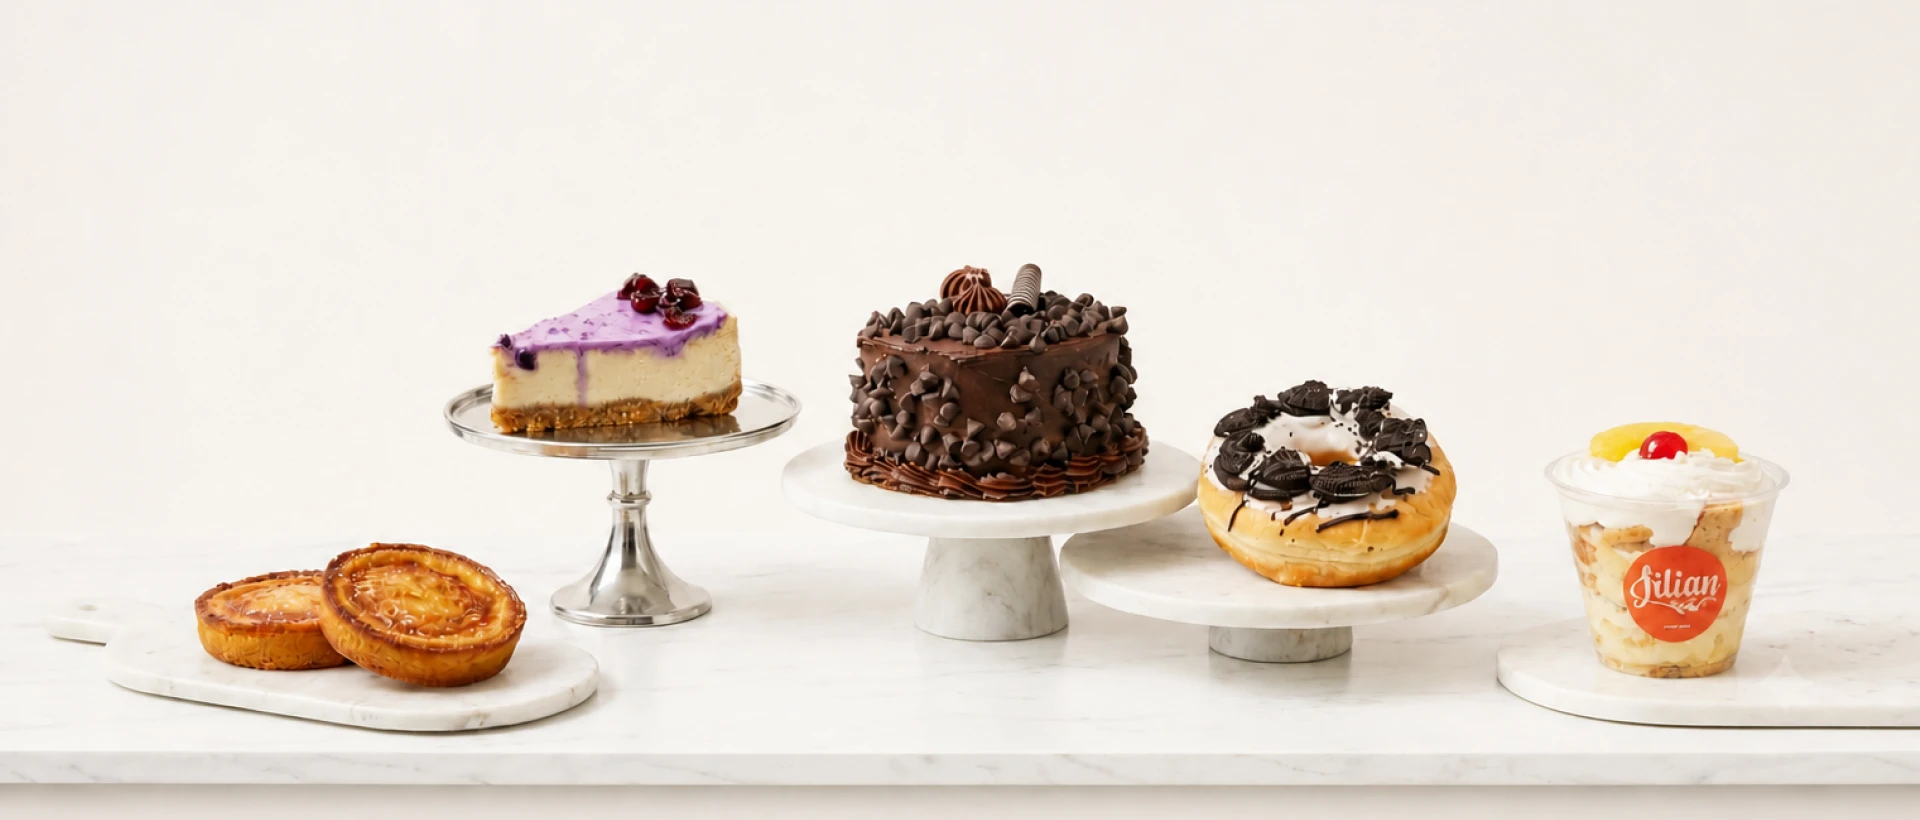
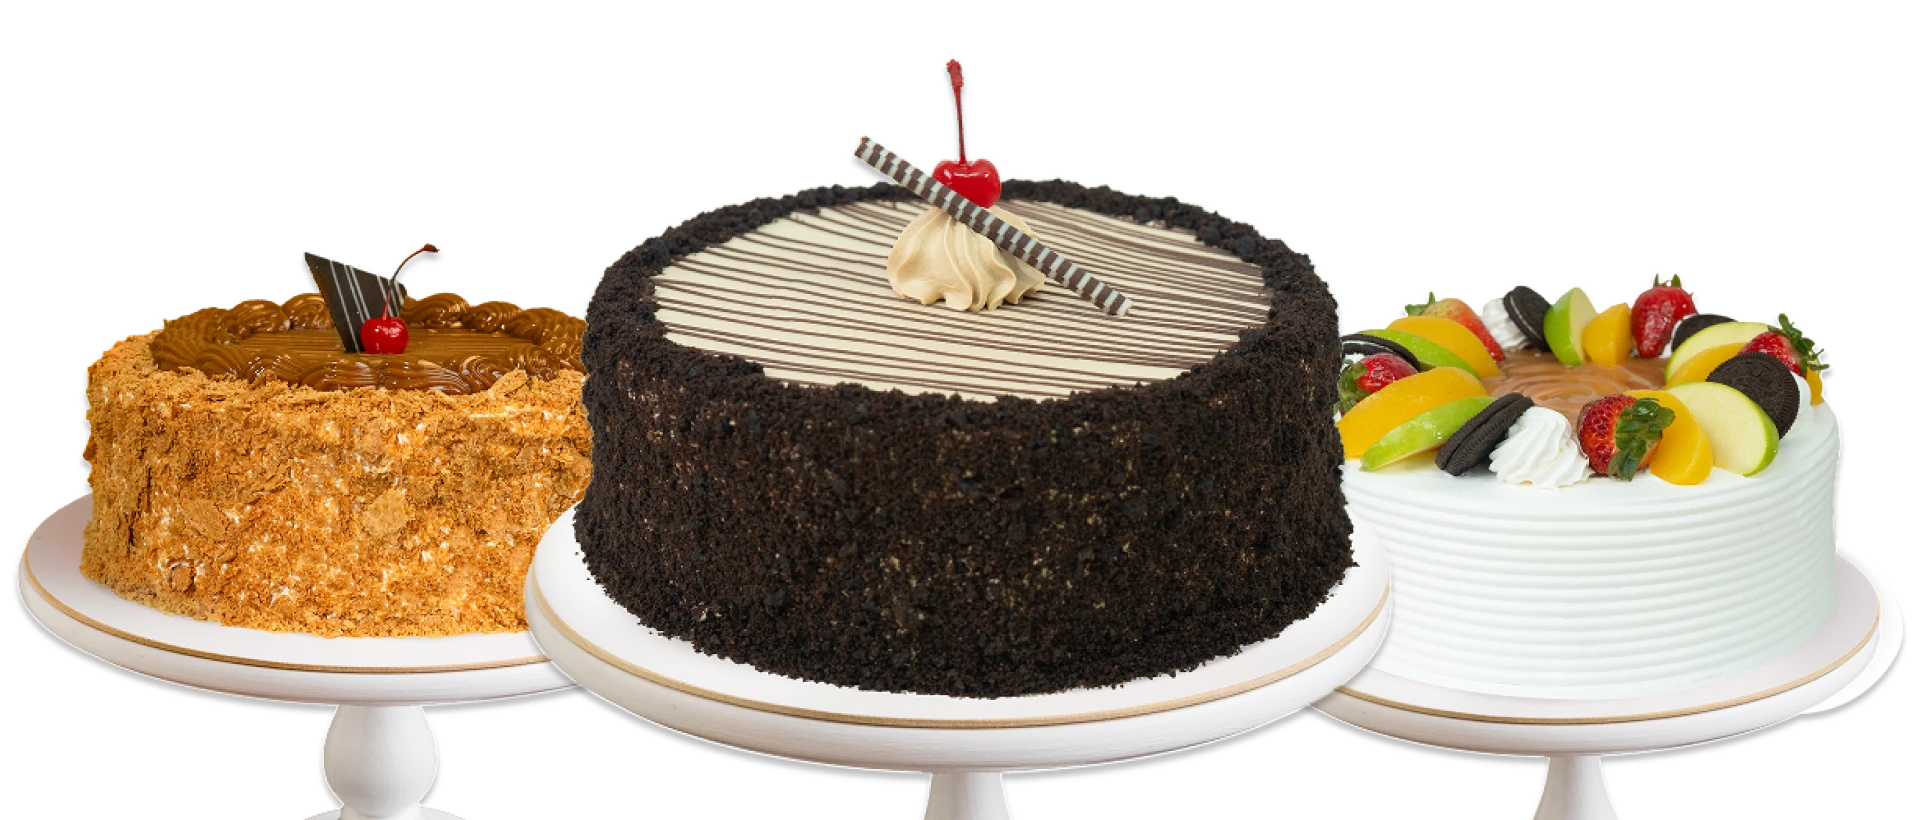
fix(hero): mejoras de accesibilidad, contenido y layout en el carrusel
Área táctil de los dots de progreso ampliada a ~44px sin cambiar el
grosor visual de 13px (son el único control táctil en mobile, ya que
las flechas se ocultan hasta md).

Imagen del pastel en slide 1 corregida en mobile: se dimensionaba por
alto y desbordaba el ancho del viewport, cortando el pastel fuera de
pantalla; ahora se ajusta a w-full en mobile y escala hacia arriba
igual que antes desde sm+. En desktop (xl) se agranda un 15% extra.

Interlineado del headline centrado reducido (leading-1.15 -> 0.8) en
los 3 slides.

Slide 1: nuevo texto "La tradición que nos une", con "tradición" en
Owl Cute y el mismo color que usaba "amor".

Slide 2: nuevo texto "Nuestro primer amor es el pan.", con "amor" en
Owl Cute/teal igual que "temporada"; se agrega un párrafo descriptivo
en Chronica Pro entre el título y el CTA; imagen de fondo reemplazada
y reducida ~15% en desktop (xl).

diff --git a/features/hero/constants.ts b/features/hero/constants.ts
@@ -25,11 +25,10 @@ export const HERO_SLIDES: HeroSlideData[] = [
     },
     headline: [
       [
-        { text: "Hecho con ", highlight: false },
-        { text: "amor", highlight: true },
-        { text: " y", highlight: false },
+        { text: "La ", highlight: false },
+        { text: "tradición", highlight: true },
       ],
-      [{ text: "horneado para ti.", highlight: false }],
+      [{ text: "que nos une", highlight: false }],
     ],
     cta: {
       label: "Ordena en Pedidos ya",
@@ -49,14 +48,12 @@ export const HERO_SLIDES: HeroSlideData[] = [
     },
     headline: [
       [
-        { text: "Disfruta", highlight: false, color: "orange" },
-        { text: " de nuestra", highlight: false },
+        { text: "Nuestro primer ", highlight: false },
+        { text: "amor", highlight: true, color: "teal" },
       ],
-      [
-        { text: "nueva ", highlight: false },
-        { text: "temporada", highlight: true, color: "teal" },
-      ],
+      [{ text: "es el pan.", highlight: false }],
     ],
+    description: "Somos especialistas en pan, pasteles y postres",
     cta: {
       label: "Ordena en Pedidos ya",
       href: "https://www.pedidosya.com",

diff --git a/features/hero/components/HeroProgress.tsx b/features/hero/components/HeroProgress.tsx
@@ -58,12 +58,14 @@ export default function HeroProgress({
               tabIndex={isActive ? 0 : -1}
               onClick={() => onSelect(index)}
               onKeyDown={(event) => handleKeyDown(event, index)}
-              className="flex-1 h-[13px] bg-white/50 backdrop-blur-md rounded-full overflow-hidden focus:outline-none focus-visible:ring-2 focus-visible:ring-lilian-orange"
+              className="flex-1 py-4 -my-4 focus:outline-none focus-visible:ring-2 focus-visible:ring-lilian-orange rounded-full"
             >
-              <div
-                className="h-full bg-lilian-orange rounded-full"
-                style={{ width }}
-              />
+              <span className="block h-[13px] bg-white/50 backdrop-blur-md rounded-full overflow-hidden">
+                <span
+                  className="block h-full bg-lilian-orange rounded-full"
+                  style={{ width }}
+                />
+              </span>
             </button>
           );
         })}

diff --git a/features/hero/components/HeroSlide.tsx b/features/hero/components/HeroSlide.tsx
@@ -40,11 +40,17 @@ function HeroSlide({ slide, index, isActive }: HeroSlideProps) {
         className={`relative z-10 flex flex-col px-4 sm:px-8 ${
           slide.align === "left"
             ? "h-full justify-center items-start text-left md:pl-24 lg:pl-32"
-            : "pt-[31.5cqh] md:pt-[25.6cqh] lg:pt-[25cqh] items-center text-center"
+            : "pt-[31.5cqh] sm:pt-[29cqh] md:pt-[25.6cqh] lg:pt-[25cqh] items-center text-center"
         }`}
       >
         {slide.eyebrow && <HeroEyebrow text={slide.eyebrow} />}
         <HeroHeadline lines={slide.headline} align={slide.align} />
+
+        {slide.description && (
+          <p className="mt-[2.4cqh] sm:mt-[2.2cqh] md:mt-[1.9cqh] lg:mt-[1.7cqh] max-w-[52ch] font-chronica text-[2.4cqh] md:text-[2.6cqh] lg:text-[2.8cqh] text-lilian-purple/80">
+            {slide.description}
+          </p>
+        )}
 
         <CtaButton
           href={slide.cta.href}

diff --git a/features/hero/components/HeroForegroundImage.tsx b/features/hero/components/HeroForegroundImage.tsx
@@ -37,14 +37,14 @@ export default function HeroForegroundImage({
 
   if (foregroundImage.fit === "compact") {
     return (
-      <div className="absolute right-0 bottom-[-4.2cqh] sm:bottom-[-11cqh] md:bottom-[-6.9cqh] lg:bottom-[-5cqh] z-[1] pointer-events-none h-[45.2cqh] sm:h-[47.1cqh] md:h-[47.4cqh] lg:h-[50cqh] aspect-[1920/820]">
+      <div className="absolute inset-x-0 sm:inset-x-auto sm:right-0 bottom-0 sm:bottom-[-11cqh] md:bottom-[-6.9cqh] lg:bottom-[-5cqh] xl:bottom-[-5.75cqh] z-[1] pointer-events-none w-full sm:w-auto sm:h-[47.1cqh] md:h-[47.4cqh] lg:h-[50cqh] xl:h-[57.5cqh] aspect-[1920/820]">
         <Image
           src={foregroundImage.src}
           alt={foregroundImage.alt}
           fill
           priority
           className="object-contain object-bottom"
-          sizes="(max-width: 640px) 655px, (max-width: 768px) 750px, (max-width: 1024px) 866px, 983px"
+          sizes="(max-width: 640px) 100vw, (max-width: 768px) 750px, (max-width: 1024px) 866px, 983px"
         />
       </div>
     );
@@ -52,7 +52,7 @@ export default function HeroForegroundImage({
 
   if (foregroundImage.fit === "cover") {
     return (
-      <div className="absolute inset-x-0 bottom-0 z-[1] pointer-events-none w-full aspect-[1920/820]">
+      <div className="absolute inset-x-0 bottom-0 z-[1] pointer-events-none w-full xl:w-[85%] xl:mx-auto aspect-[1920/820]">
         <Image
           src={foregroundImage.src}
           alt={foregroundImage.alt}

diff --git a/features/hero/components/HeroHeadline.tsx b/features/hero/components/HeroHeadline.tsx
@@ -14,7 +14,7 @@ export default function HeroHeadline({ lines, align = "center" }: HeroHeadlinePr
   return (
     <h1
       className={`text-[5.8cqh] md:text-[8.2cqh] lg:text-[8.7cqh] text-lilian-purple tracking-normal font-chronica font-bold ${
-        align === "left" ? "leading-[0.95] text-left" : "leading-[1.15] text-center"
+        align === "left" ? "leading-[0.95] text-left" : "leading-[0.8] text-center"
       }`}
     >
       {lines.map((segments, lineIndex) => (

diff --git a/features/hero/types.ts b/features/hero/types.ts
@@ -32,6 +32,8 @@ export type HeroSlideData = {
   /** Small uppercase label with side rules, rendered above the headline (e.g. "EST. 1979"). Omitted when not set. */
   eyebrow?: string;
   headline: HeadlineSegment[][];
+  /** Optional paragraph rendered between the headline and the CTA button. */
+  description?: string;
   /** "center" (default) or "left" text/CTA alignment. */
   align?: "center" | "left";
   cta: {